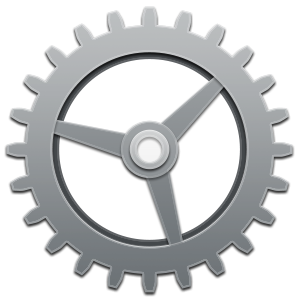
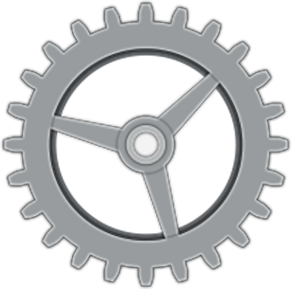
feat(onboarding): style page 2

diff --git a/internal_packages/onboarding/stylesheets/onboarding.less b/internal_packages/onboarding/stylesheets/onboarding.less
@@ -519,12 +519,14 @@
   .footer {
     text-align: center;
     background: #ececec;
-    border-top: 1px solid #d4d4d4;
+    border-top: 1px solid rgba(0,0,0,0.10);
+    box-shadow: 0 1px 1px solid rgba(255,255,255,0.25);
 
     &.step-0 {
-      border-top: 1px solid rgba(0,0,0,0.15);
-      box-shadow: 0 1px 1px solid rgba(255,255,255,0.25);
       background-image: linear-gradient(to right, rgba(167,214,134,1) 0%,rgba(122,201,201,1) 100%);
+    }
+    &.step-1 {
+      background: #4e575c;
     }
 
     .btn-continue {
@@ -650,11 +652,12 @@
     }
 
     .gear-large-0 {
-      left: 50%;
-      top: 50%;
-      margin-left: -150px;
-      margin-top: -150px;
+      left: 51%;
+      top: 51%;
+      margin-left: -148px;
+      margin-top: -149px;
       transform: rotate(7deg);
+      zoom: 0.525 !important;
     }
     .gear-large-1 {
       left: -147px;
@@ -666,8 +669,8 @@
     }
     .gear-large-3 {
       left: 50%;
-      margin-left: -148px;
-      bottom: -226px;
+      margin-left: -143px;
+      bottom: -223px;
     }
 
     .gear-small {
